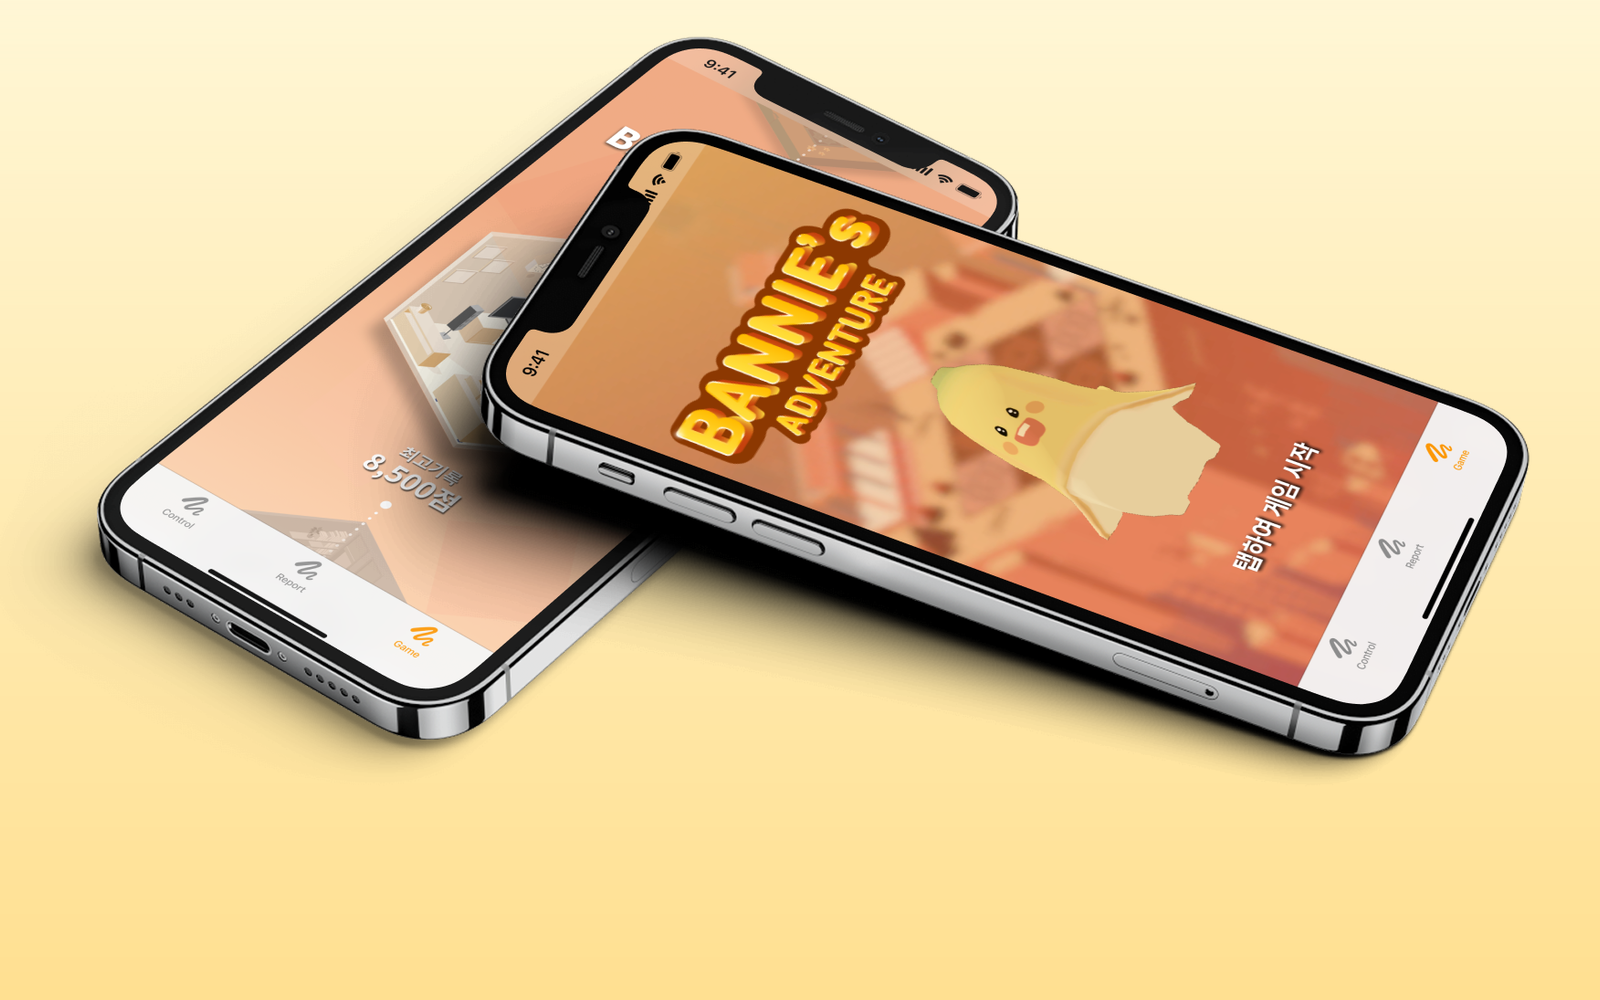
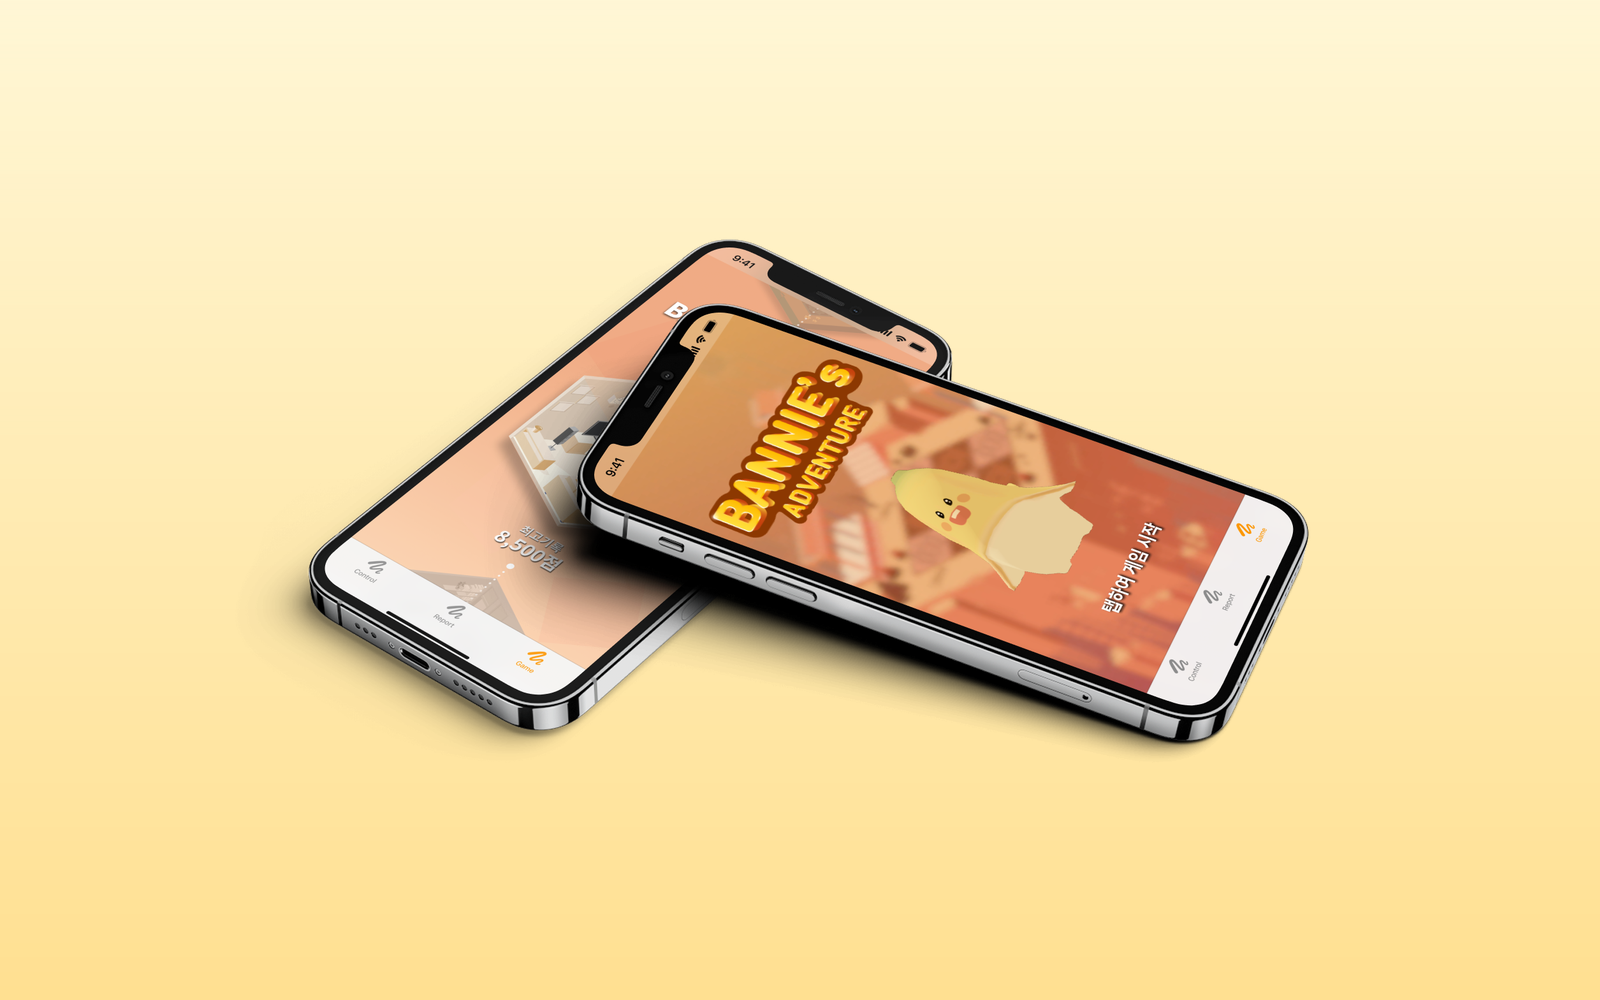
B2C/B2B 태그 solid blue+흰글씨로 재수정, 히어로/썸네일 재조정 반영
- .biz-tag를 파란 배경+흰 텍스트로 확실히 대비되게 수정(이전 커밋이 실제로는
  누락되어 있었음 - 세션 중 커밋 없이 계속 편집만 하고 있었던 것 발견)
- 에이지알 프렌즈 히어로: 팔 안 잘리게, 폰은 우측 정렬 fill로 재구성
  + 모바일에서 과도하게 커 보이던 문제 미디어쿼리로 수정
- Bannie's Adventure 썸네일 중앙 정렬 재조정
- My Olive 썸네일 확대 크롭
- medicube.html 히어로 1번째 이미지를 멀티 디바이스 목록 버전으로 교체

Claude-Session: https://claude.ai/code/session_0122gnyiLWGq3M4HFo7HuRu6

diff --git a/assets/css/site.css b/assets/css/site.css
@@ -195,7 +195,7 @@ section.block.tight { padding: 44px 0; }
   color: #B7CDFF; border-color: rgba(91,147,255,.4);
 }
 .chip.dark { background: var(--t1); color: var(--bg); border-color: transparent; font-weight: 800; }
-.biz-tag { position: absolute; top: 10px; left: 10px; z-index: 2; font-size: 10.5px; padding: 4px 10px; background: var(--t1); color: var(--bg); border-color: transparent; font-weight: 800; }
+.biz-tag { position: absolute; top: 10px; left: 10px; z-index: 2; font-size: 10.5px; padding: 4px 10px; background: var(--blue); color: #fff; border-color: transparent; font-weight: 800; box-shadow: 0 2px 8px rgba(0,0,0,.25); }
 
 /* ── 프로토타입 링크 버튼 ── */
 .proto-link {
@@ -644,6 +644,7 @@ footer.site-footer {
 @media (max-width: 720px) {
   section.block { padding: 48px 0; }
   .hero { padding: 48px 0 36px; }
+  #arf-hero-visual { max-width: 320px !important; }
   .card-grid, .card-grid.cols-3, .card-grid.cols-4 { grid-template-columns: 1fr; }
   .stat-row { flex-direction: column; }
   .stat + .stat { border-left: none; border-top: 1px solid var(--border); padding-left: 0; padding-top: 16px; }

diff --git a/projects/medicube.html b/projects/medicube.html
@@ -58,7 +58,7 @@
     </div>
 
     <div class="visual" style="display:flex; gap:16px; justify-content:center; max-width:640px; margin:0 auto;">
-      <img src="../assets/images/medicube/home-framed.png" alt="에이지알 홈 화면" style="width:32%; display:block;" loading="lazy" />
+      <img src="../assets/images/medicube/devicelist-framed.png" alt="에이지알 홈 화면" style="width:32%; display:block;" loading="lazy" />
       <img src="../assets/images/medicube/remote-control-framed.png" alt="에이지알 리모트 컨트롤 화면" style="width:32%; display:block;" loading="lazy" />
       <img src="../assets/images/medicube/report-framed.png" alt="에이지알 리포트 화면" style="width:32%; display:block;" loading="lazy" />
     </div>

diff --git a/projects/age-r-friends.html b/projects/age-r-friends.html
@@ -73,7 +73,7 @@
       <div class="stat"><div class="num accent">매출 증가</div><div class="label">무료쿠폰 사용 시 추가 구매 동반</div></div>
     </div>
 
-    <div class="visual" style="max-width:560px; margin:0 auto;">
+    <div class="visual" style="max-width:560px; margin:0 auto;" id="arf-hero-visual">
       <img src="../assets/images/appendix/age-r-friends/hero-app.png" alt="에이지알 프렌즈 앱 화면" style="width:100%; display:block;" loading="lazy" />
     </div>
   </div>
